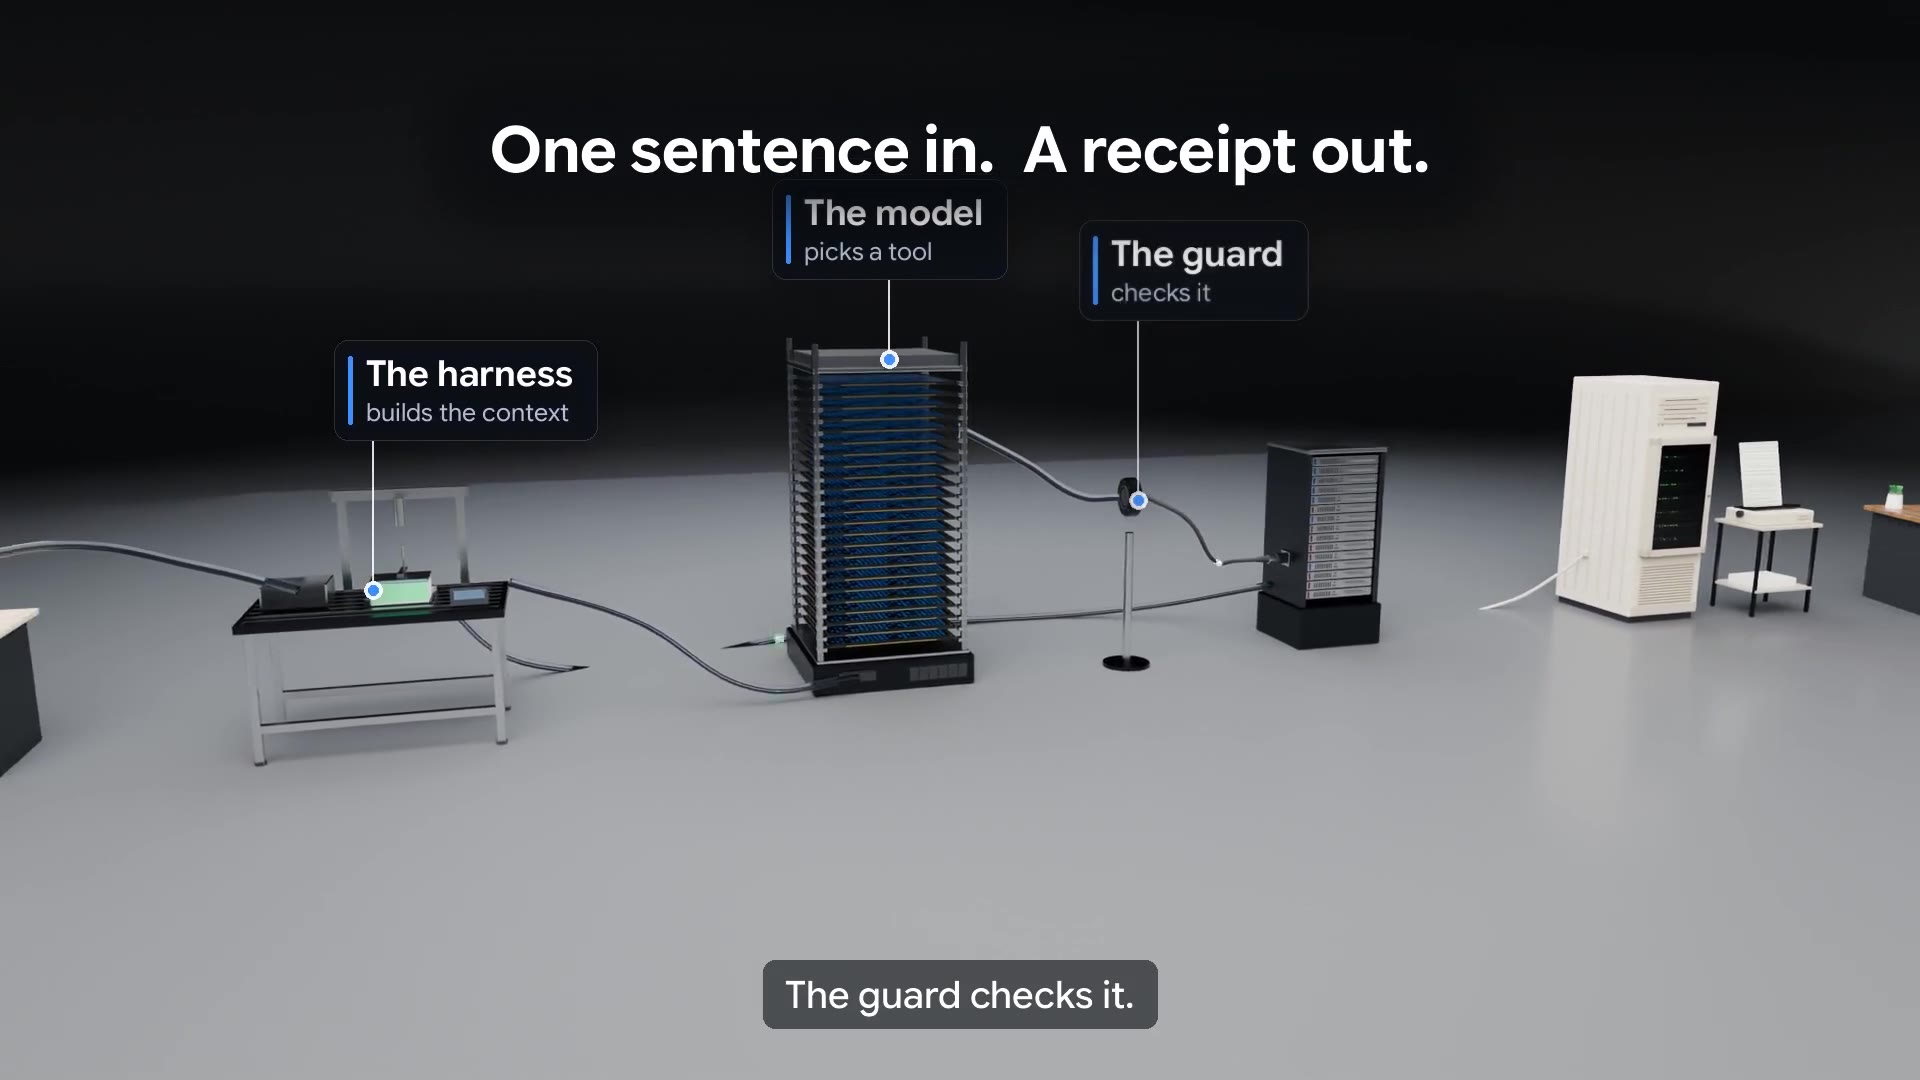
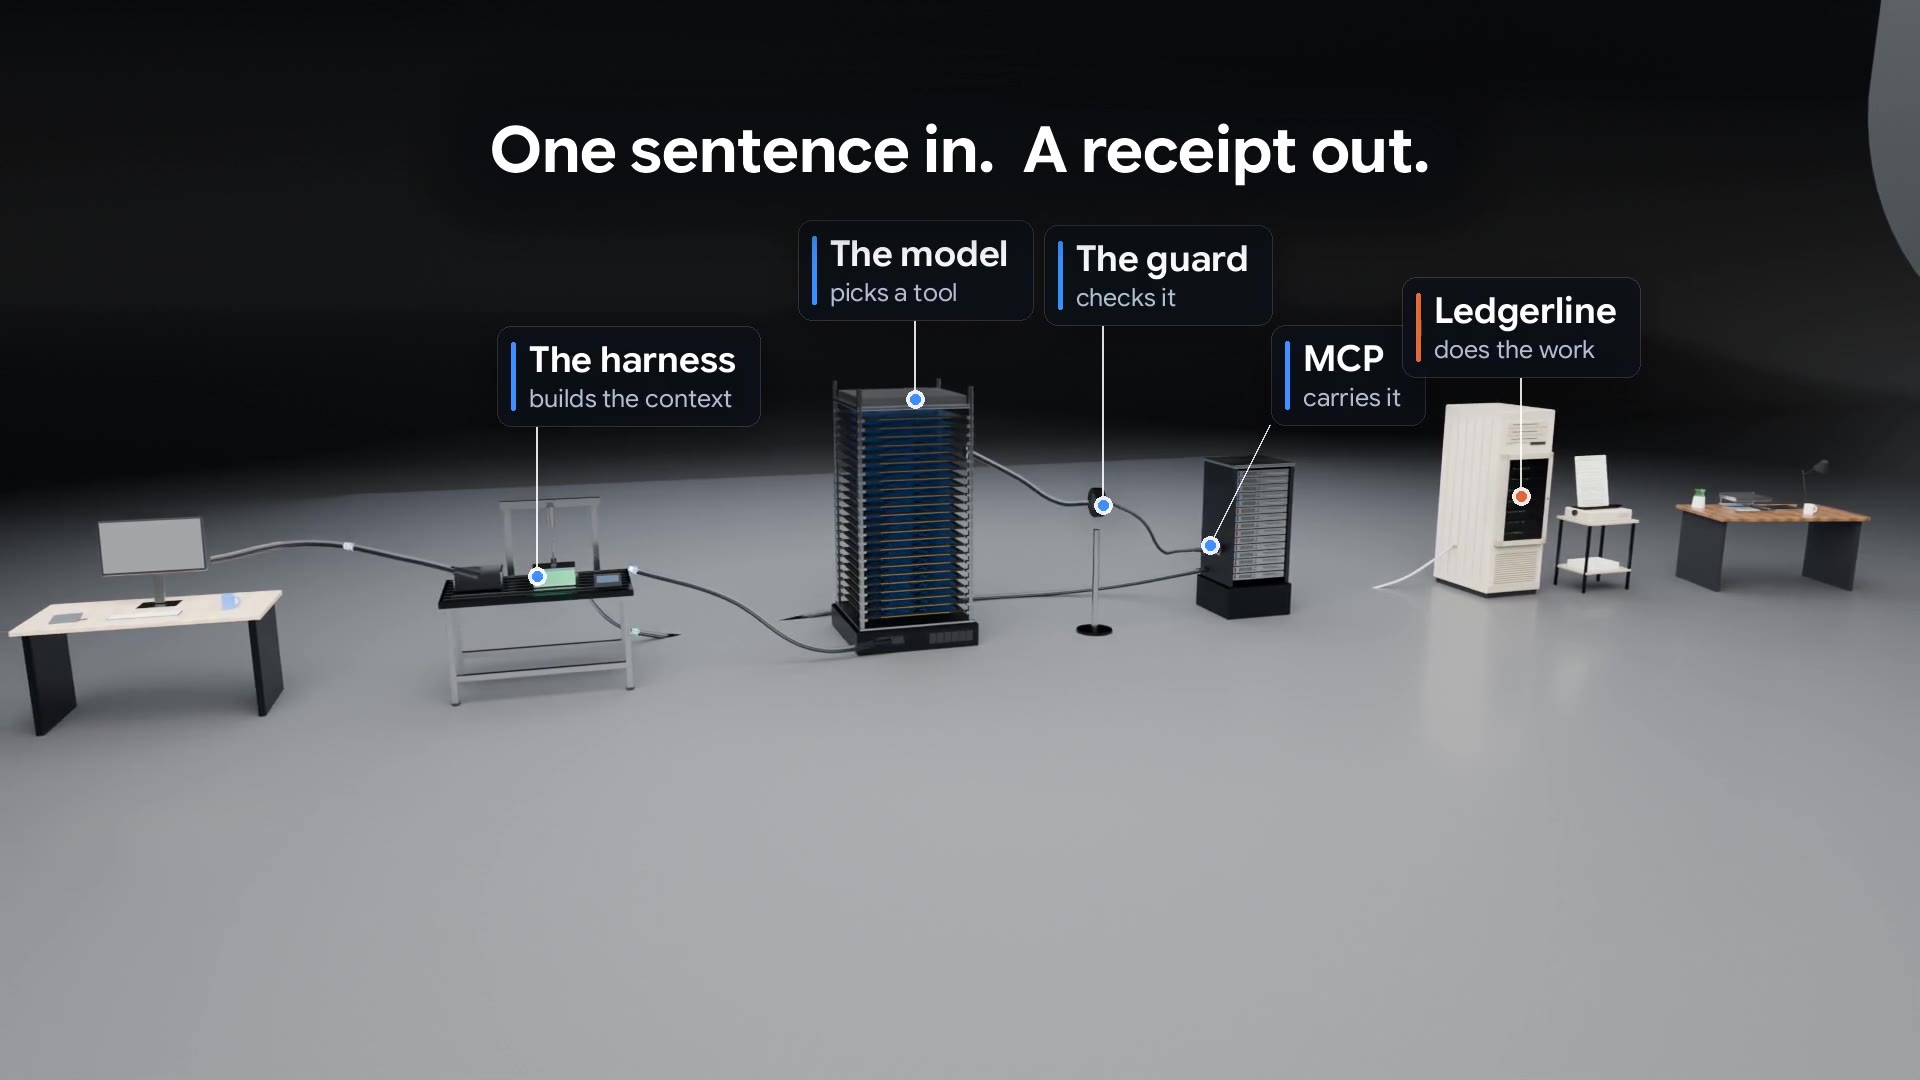
L1 film build code (Blender scenes, Modal render and composite, overlays, script and timeline); renders, audio and music stay out of git

diff --git a/lectures/L1-before-and-after/films/build/m_comp.py b/lectures/L1-before-and-after/films/build/m_comp.py
@@ -368,3 +368,8 @@ def pull(tag: str = "v1", poster_sec: float = 154.0):
     for ext in ("mp4", "webm"):
         open(os.path.join(films, f"l1_how_it_works.{ext}"), "wb").write(fetch.remote(f"{VOL}/out/l1_how_it_works_{tag}.{ext}"))
         print("saved", ext)
+
+
+@app.local_entrypoint()
+def poster(tag: str = "v2", sec: float = 159.4):
+    open(os.path.join(FILMS, "poster.jpg"), "wb").write(grab.remote(f"{VOL}/out/l1_how_it_works_{tag}.mp4", [sec], 1920)[0])

diff --git a/lectures/L1-before-and-after/films/FILMS.md b/lectures/L1-before-and-after/films/FILMS.md
@@ -1,0 +1,86 @@
+# Lecture 1 film: How Ask Northbridge works, underneath
+
+**File:** `l1_how_it_works.mp4` (H.264 1080p30, faststart, AAC, 164.8 s = 2:44.8, 23.4 MB), with a `l1_how_it_works.webm` copy (VP9 + Opus, 23.9 MB) and `poster.jpg` (the closing wide shot).
+
+**Where it plays:** at the end of the "How it works, underneath" section, after Rajat has taught the harness, the model, the tools, MCP and Ledgerline, as the cinematic recap of one real request. The interactive three.js version in `../flow3d/` stays as it is, and it is the fallback.
+
+**Embed:** use `<video controls preload="metadata" poster="films/poster.jpg">` with the mp4 and webm sources. Do not autoplay it, and offer a Present (full screen) option. Subtitles are burnt in.
+
+## Script and shots
+
+Voice: Daniel (ElevenLabs `onwK4e9ZLuTAKqWW03F9`, `eleven_multilingual_v2`). It is played 1.08x faster (ffmpeg atempo) to fit 2:45. The subtitle text is below; the spelled-out text sent to the voice is in `build/script.json`.
+
+| # | Time | Narration (subtitles) | Picture |
+|---|---|---|---|
+| 1 | 0:00.0 to 0:19.4 | Monday morning, Manchester. Emma Clarke buys parts for Northbridge Cycles. She types one question: how many city e-bike battery packs do we have? Seconds later, she has her answer. So what happened in between? | Emma's desk: the display with the Ask Northbridge chat mapped onto the screen (typed question, thinking dots, the real reply). Title typed over the opening. |
+| 2 | 0:19.4 to 0:37.5 | Her words don't go to the model first. They go to the harness, the code around the model. Think of an assembly bench. Our rules. Her message. A description of every tool, all fifteen. Stacked together: one request, 2,139 tokens. | The harness bench: a wide shot; then a macro push-in on the jig as the context sheets fly in from the magazine (rules, her message, 15 tool sheets); then the clamp presses them into one request. 2D: the context ledger (196 + 11 + 1,932) and the 2,139 punch. |
+| 3 | 0:37.5 to 0:51.6 | The model reads every one of those tokens. And here's the twist: it doesn't answer. It can't see the stock. So it picks one tool of fifteen, find_item, and writes its arguments as JSON. | The model, opened up: covers slide away, 40 token tiles ride in, and three light waves climb the 24 layers. Cut to the tool rack: find_item slides out and lights. Cut to the output port as the call leaves. 2D: the list of 15 tools, 1 of 15, and the tool call JSON. |
+| 4 | 0:51.6 to 1:03.6 | Can we trust what it wrote? Not yet. The guard checks it against the tool's schema: the right fields, the right types. Then MCP, the standard plug, carries it to the toolbox. | A macro on the guard ring, which turns green as the schema check passes (2D check marks). A macro on the MCP plug seating. Then the rack. 2D: the JSON-RPC tools/call frame. |
+| 5 | 1:03.6 to 1:17.8 | Behind the toolbox sits Ledgerline ERP 7.2, a system from 1998. The tool calls it with Emma's own permissions. We never open this cabinet: data in, data out. | The 1998 Ledgerline cabinet. A macro on the old units blinking behind the smoked glass while the services run. A green packet comes back. 2D: as ECLARKE, 11 service calls in, items out. |
+| 6 | 1:17.8 to 1:33.0 | The result goes back into the context, and the loop goes round again. Search the manuals. Check the stock. Each lap, the request grows. Five model calls later: 6,600 packs, eleven days of cover. | A wide shot over the bench, model and rack: results return, sheets add to the stack, cartridges slide out for search_policy and check_stock. 2D: five laps with real token counts, and the 6,600 punch. |
+| 7 | 1:33.0 to 1:51.5 | Then Emma asks for more: order 2,000 battery packs from Voltway Cells. The model tries a direct order, and the tool says no. Direct orders stop at £50,000. This one is £285,600. Raise a purchase request first. | The rack: create_purchase_order slides out. A macro on it: the light turns ember, an ember wash falls on the rack, it is pushed back. 2D: Emma's order, the refusal JSON, the REFUSED stamp, the £50,000 punch. |
+| 8 | 1:51.5 to 2:05.9 | So the model builds the request, as a preview. Nothing is saved. £273,600: above Emma's limit, so Daniel Okafor must approve. Shall I go ahead? Emma says yes. | Emma's screen again: the real preview reply, then 'Yes, go ahead.' typed and sent. 2D: the £273,600 punch and the approver chip. |
+| 9 | 2:05.9 to 2:16.5 | Only now is anything written. Ledgerline saves the request, and PR/2026/04417 lands in Daniel's approval inbox. | Daniel's desk (presence only). A macro on the steel letter tray: PR/2026/04417 drops onto PO/2026/01179 with a soft glow and a ripple. 2D: pr_save and pr_submit, and the PR/2026/04417 punch. |
+| 10 | 2:16.5 to 2:26.6 | One last step: the tool reads the record back. Waiting for approval. What Emma sees is what the ERP really holds. | The dot-matrix printer prints the green-bar receipt. 2D: the pr_get read-back and Emma's final reply. |
+| 11 | 2:26.6 to 2:44.8 | One sentence in. A receipt out. The harness builds the context. The model picks a tool. The guard checks it. MCP carries it. And Ledgerline does the work. | A slow pull-back from the model to the whole machine. Each station is labelled on its word. Then the end card with credits. |
+
+The end card starts at 2:39.8: "One sentence in. A receipt out.", with credits.
+
+## Provenance: every number comes from the recorded run
+
+All numbers and strings on screen come from `../flow3d/trace.json`. That trace is one real run of `ledgerline.course.l1.AskNorthbridge`, recorded live at 2026-10-30 04:15 UTC with gemini-3.8-flash, as ECLARKE:
+
+- **Tokens:**
+  - 2,139 tokens in the first request: system 196, history 11, 15 tool schemas 1,932 (`context_split`).
+  - The context grows over the first turn's five model calls: 2,139, 2,507, 2,894, 3,218, 3,325.
+  - The first call returns 21 tokens in 2.68 s.
+- **The first tool call:**
+  - The model picks `find_item({"query": "city e-bike battery pack"})`, 1 of the 15 tools.
+  - The guard checks it: query is a string, query is required, writes is false.
+  - MCP carries it as a JSON-RPC `tools/call` frame.
+  - Ledgerline runs 11 service calls (itm_search x5, itm_get x6).
+- **The stock:** check_stock BAT-500 finds 6,600 free (Manchester 5,400 + Leeds 1,200), 11 days of cover. BAT-500-R has no stock record.
+- **The second request:** "Order 2,000 battery packs from Voltway Cells for the spring launch run, cost centre PRD-07, needed by 9 November."
+- **The refusal:** "A direct order is limited to £50,000; this one is £285,600." The next step: raise a purchase request first.
+- **The preview:** £273,600, above Emma's £250,000 limit, with DOKAFOR (Daniel Okafor) as approver. Nothing is saved.
+- **The write:** after "Yes, go ahead.", pr_save and pr_submit create PR/2026/04417. It goes into DOKAFOR's inbox next to PO/2026/01179.
+- **The receipt:** pr_get reads it back: WAITING FOR APPROVAL, status PA. Emma's final reply is quoted from the trace.
+
+No text is readable in the 3D. Every word on screen is a 2D overlay drawn from these values (`build/overlays.py`).
+
+## How it was made (all heavy work on Modal, workspace rajatworkspace)
+
+| Step | Files | Where |
+|---|---|---|
+| Script and voice | `build/script.json`, `build/tts.py`, `build/audio/n*.mp3` + `.align.json` (character timings) | ElevenLabs API |
+| Master timeline | `build/timeline.py` → `build/timeline.json`: block starts, word frames (after atempo 1.08), 11 shot plates with 10-frame handles | local, JSON only |
+| 3D world | `build/blender/lib.py` (graphite studio, materials, primitives), `props.py` (bench, 24-layer model, guard ring, 15-cartridge rack, MCP plug and cable, 1998 cabinet, dot-matrix printer, two desks, glass conduits), `shots.py` (per block: animation keyed to words, cameras switched by markers, 2D anchor export) | Blender 4.2.3 Cycles on Modal L40S (`build/m_blender.py`) |
+| Overlays and composite | `build/overlays.py` (timed elements), `build/comp.py` (PIL renderer: pins, punches, JSON cards, chat UI warped onto the screen, stamp, ripple, subtitles, end card) | Modal CPU, 30 chunks (`build/m_comp.py::video`) |
+| Mix | narration + music + 18 designed SFX (`build/audio/sfx_spec.json`, `build/gen_sfx.py`), music −15 dB under speech and −7 dB in gaps, two-pass loudnorm to −14 LUFS, TP −2 | Modal (`m_comp.py::audio`) |
+| Delivery | `m_comp.py::final` (mux, faststart, webm), `::pull` (downloads the mp4, webm and poster here) | Modal |
+
+**To rebuild:**
+
+1. `cd build`, then run `python3 tts.py && python3 timeline.py`.
+2. Render: `modal run m_blender.py::full --shots chat,harness,model,guard,erp,loop,refuse,preview,write,receipt,close --samples 96`.
+3. Composite and mix: `modal run m_comp.py::video --tag vN`, then `m_comp.py::audio --tag vN`.
+4. Deliver: `m_comp.py::final --tag vN`, then `m_comp.py::pull --tag vN`.
+
+To check one frame on the laptop, use `comp_still.py <shot> <frame>`; it runs PIL on a single still. Frame grabs used for QA are in `build/out/grabs_v2/`, and `build/out/` is gitignored.
+
+## Credits
+
+- Agentic Systems Engineering, Lecture 1. Dr. Rajat Dandekar, Vizuara.
+- Narration: Daniel (ElevenLabs).
+- Music: *Observatory* by Out To The World (Epidemic Sound), licensed. The file is `music/observatory_out_to_the_world.mp3`, which is gitignored and never committed. It is credited on the end card.
+- SFX: designed with ElevenLabs sound generation.
+- Type: Google Sans Flex and Google Sans Code (OFL; see `build/fonts/OFL.txt`).
+- Rendered in Blender Cycles.
+- The reference for the look was Vizuara's *Inside Rubin* film, with the house style in `../../../FILM_STYLE.md`.
+
+## Known rough edges (v2, 30 Oct 2026)
+
+- **Model shot:** the side covers of the model are plain brushed panels, and they sweep through the frame in the first second.
+- **Preview and Ledgerline:** the chat text in the wide preview shot is small, and it is carried by the subtitles and the punch. The Ledgerline macro is dark, with only the unit LEDs reading.
+- **Mix:** checked by meters only (−14 LUFS, speech windows about −16.5 dB mean, music-only title −17.8 dB); nobody has listened to it on speakers yet.
+- **Studio:** it is graphite (Rubin-like) rather than the light studio that FILM_STYLE.md describes. Rajat approved this from the style frames.
